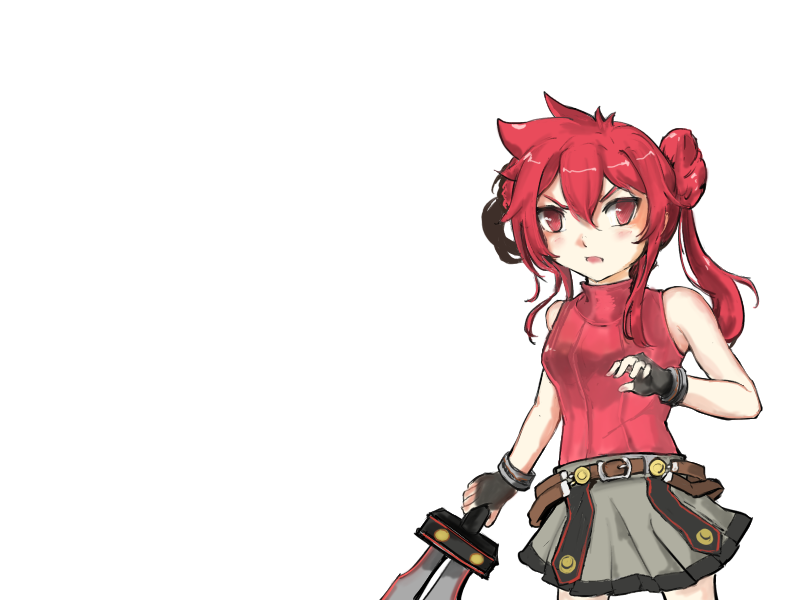
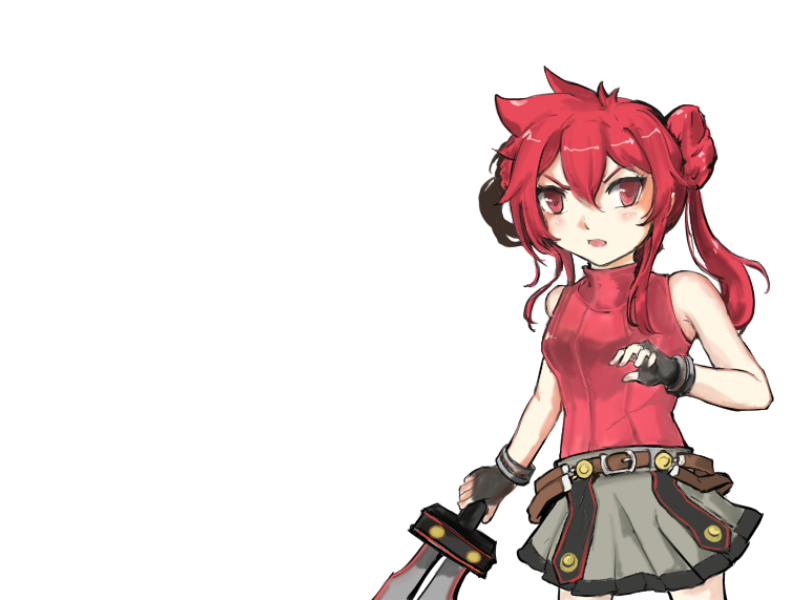
v1.005 eprilfool

Changed region(s): [[0.4688, 0.12, 0.9688, 1.0]]

diff --git a/public/don/donsword0.77.js b/public/don/donsword0.77.js
@@ -372,7 +372,7 @@ window.onload = function(){
   var musiclist=new Array("ランダム","盲目のアストライア","Nine Jack","The Evil Sacrifice Archenemies","ロベリア","夜の迷宮の入口","決闘のテーマ","エルの樹の麓","リーチっぽい音楽","竜の道","ウォーリーの城メドレー","歎きの塔Phase3","狂乱のコンサート","リーチっぽい音楽R")
   var chrlist=new Array("名無しさん","エルス","アイシャ","レナ","レイヴン","イヴ","ラシェ","アラ")//"エド","ラビィ")
   var chrimg_src= new Array("don/Don_chara0.png","don/Don_chara1.png","don/Don_chara2.png","don/Don_chara3.png","don/Don_chara4.png","don/Don_chara5.png","don/Don_chara6.png","don/Don_chara7.png");
-  var chrimgR_src= new Array("don/Don_chara0.png","don/Don_chara1R.png","don/Don_chara2R.png","don/Don_chara3R.png","don/Don_chara4R.png","don/Don_chara5R.png","don/Don_chara6.png","don/Don_chara7.png");
+  var chrimgR_src= new Array("don/Don_chara0.png","don/Don_chara1R.png","don/Don_chara2R.png","don/Don_chara3R.png","don/Don_chara4R.png","don/Don_chara5R.png","don/Don_chara6R.png","don/Don_chara7R.png");
   //説明用
   var epic_src =new Array("don/elstudio_bg1.png","don/Don_epic1.png","don/Don_epic2.png","don/Don_epic3.png","don/Don_epic6.png","don/Don_ss11.png","don/Don_epic4.png","don/Don_epic5.png");
   //パイの裏
@@ -3436,7 +3436,11 @@ function NameChange(){
     }
     //画像ID
     e4 = new createjs.Bitmap(queue.getResult(eltearB_src[0]));
-    e10 = new createjs.Bitmap(queue.getResult(chrimg_src[chara[1]]));
+    if(fool){
+      e10 = new createjs.Bitmap(queue.getResult(chrimgR_src[chara[1]]));          
+    }else{
+      e10 = new createjs.Bitmap(queue.getResult(chrimg_src[chara[1]]));
+    }
     //bitmap
     textmap.alpha=1;
     field.removeAllChildren();
@@ -4254,7 +4258,6 @@ function NameChange(){
     window.addEventListener("keydown", keyDownHandler, false);
     function keyDownHandler(e) {
       switch(e.keyCode) {
-        case 32: // space
         case 37: // ←
         case 38: // ↑
         case 39: // →
